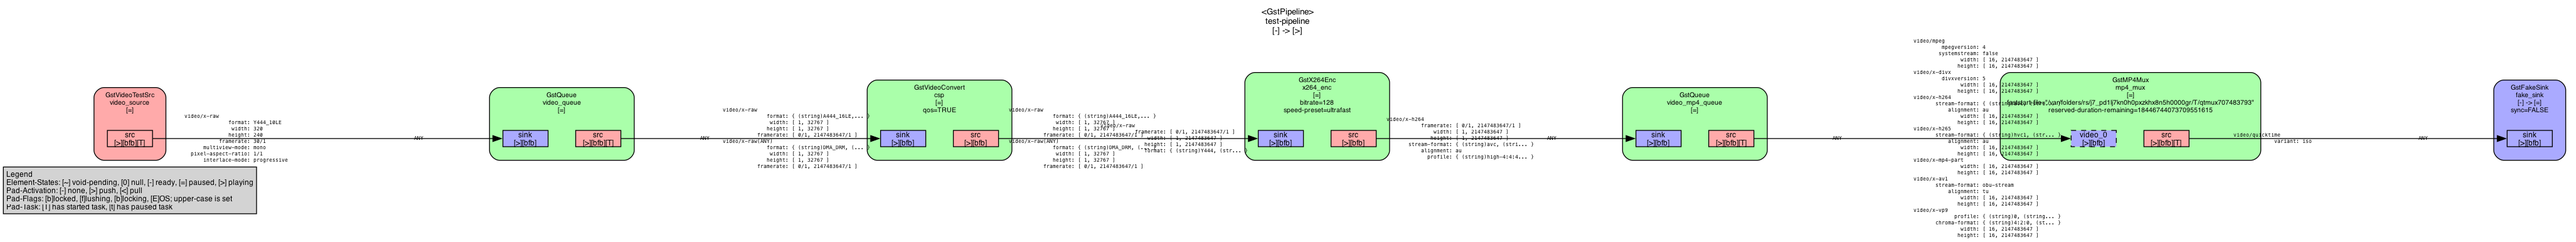
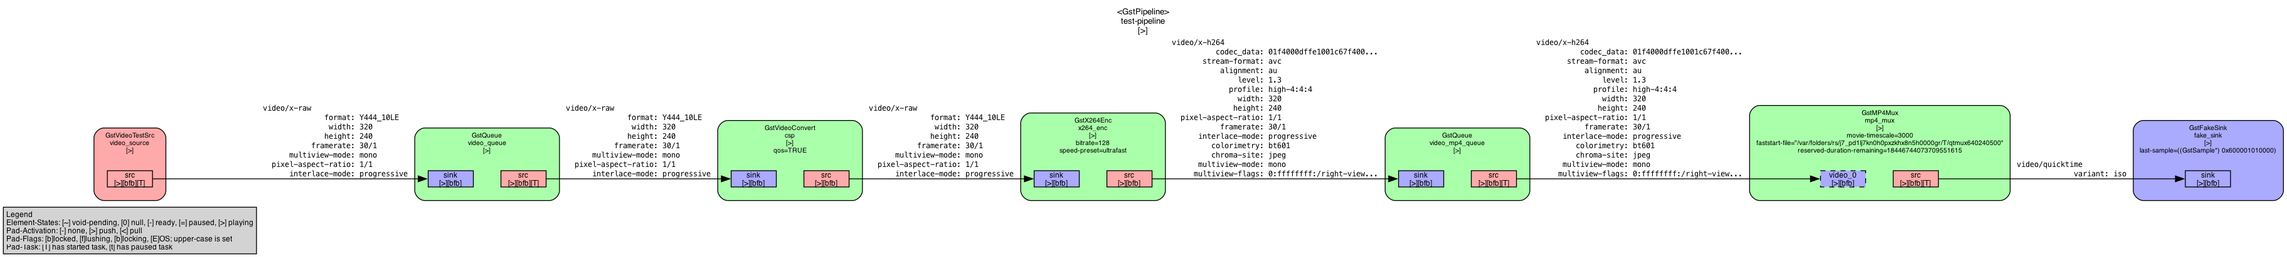
chore: set sync=true for sinks

Changed region(s): [[0.0, 0.0311, 1.0, 0.9948]]

diff --git a/basic-tutorials/filesink.c b/basic-tutorials/filesink.c
@@ -1,4 +1,5 @@
 #include <gst/gst.h>
+#include <stdbool.h>
 
 int main(int argc, char *argv[]) {
     GstElement *pipeline, *video_source, *video_queue, *video_convert, *x264_enc, *file_sink;
@@ -27,7 +28,7 @@ int main(int argc, char *argv[]) {
 
     /* Configure elements */
     g_object_set (x264_enc, "speed-preset", 1, "bitrate", 128, NULL);
-    g_object_set (file_sink, "location", "/Users/vivekchandela/Documents/mp4test/output.mp4", NULL);
+    g_object_set (file_sink, "location", "/Users/vivekchandela/Documents/mp4test/output.mp4", "sync", true, NULL);
 
     g_print ("All elements configured successfully.\n");
 

diff --git a/basic-tutorials/mp4mux-fakesink.c b/basic-tutorials/mp4mux-fakesink.c
@@ -1,4 +1,5 @@
 #include <gst/gst.h>
+#include <stdbool.h>
 
 int main(int argc, char *argv[]) {
     GstElement *pipeline, *video_source, *video_queue, *video_convert, *x264_enc, *video_mp4mux_queue;
@@ -36,6 +37,7 @@ int main(int argc, char *argv[]) {
 
     /* Configure elements */
     g_object_set (x264_enc, "speed-preset", 1, "bitrate", 128, NULL);
+    g_object_set (fake_sink, "sync", true, NULL);
 
     g_print ("All elements configured successfully.\n");
 

diff --git a/basic-tutorials/fakesink.c b/basic-tutorials/fakesink.c
@@ -1,4 +1,5 @@
 #include <gst/gst.h>
+#include <stdbool.h>
 
 int main(int argc, char *argv[]) {
     GstElement *pipeline, *video_source, *video_queue, *video_convert, *x264_enc, *fake_sink;
@@ -27,6 +28,7 @@ int main(int argc, char *argv[]) {
 
     /* Configure elements */
     g_object_set (x264_enc, "speed-preset", 1, "bitrate", 128, NULL);
+    g_object_set (fake_sink, "sync", true, NULL);
 
     g_print ("All elements configured successfully.\n");
 
